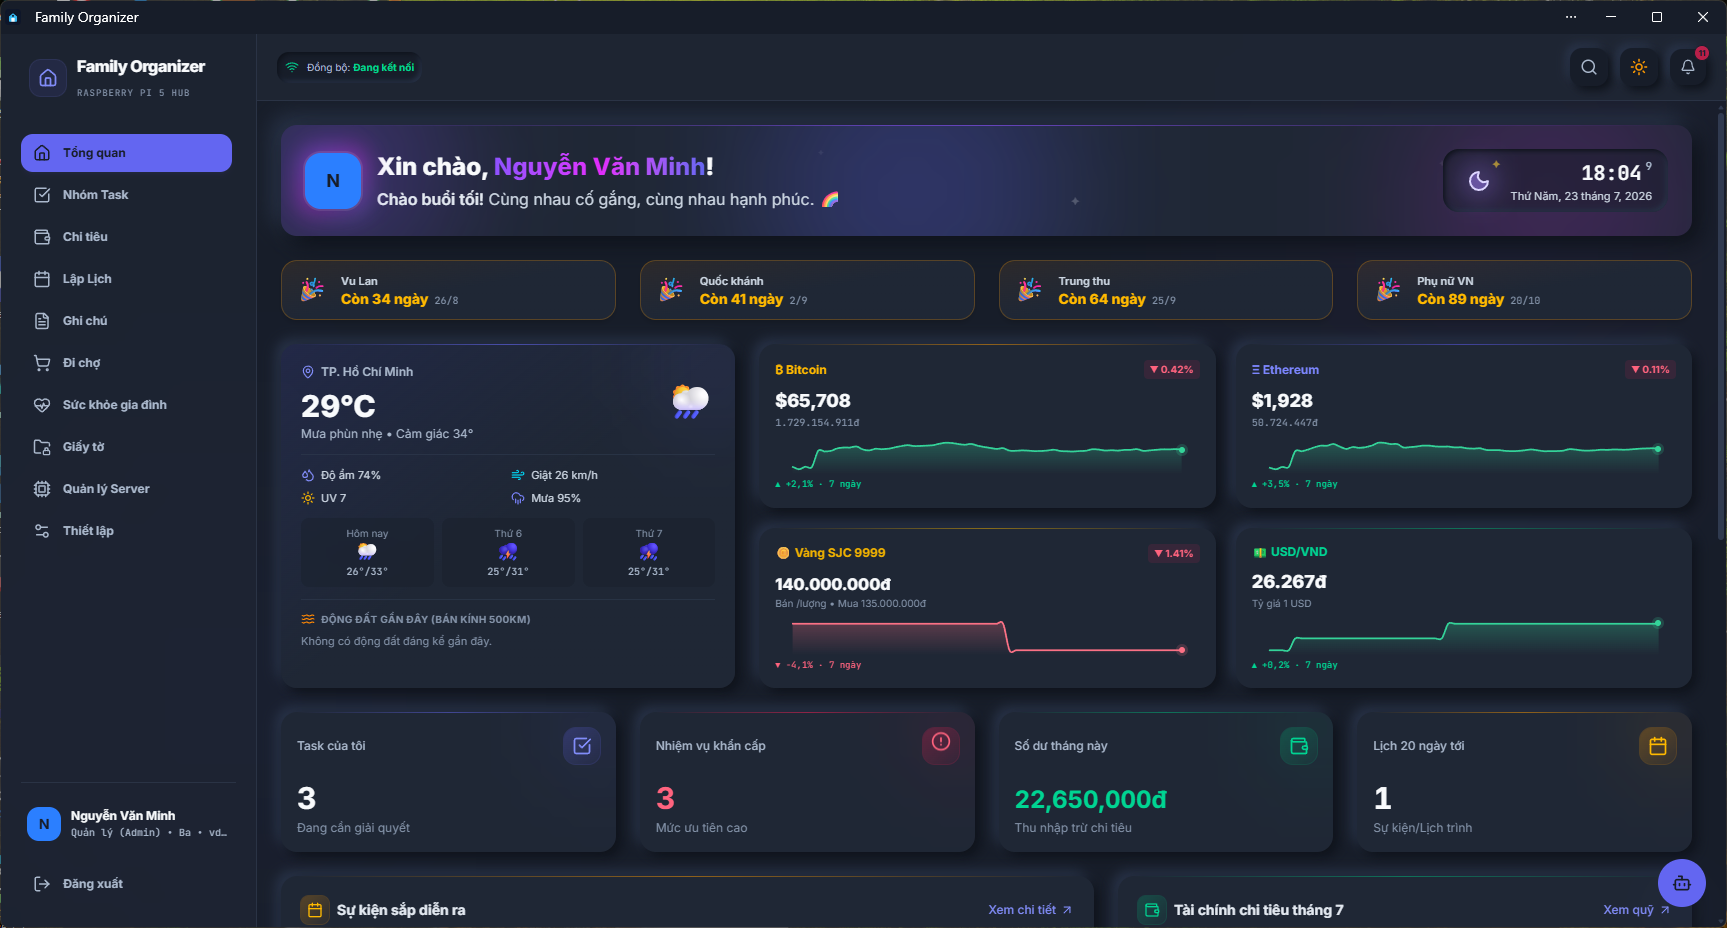
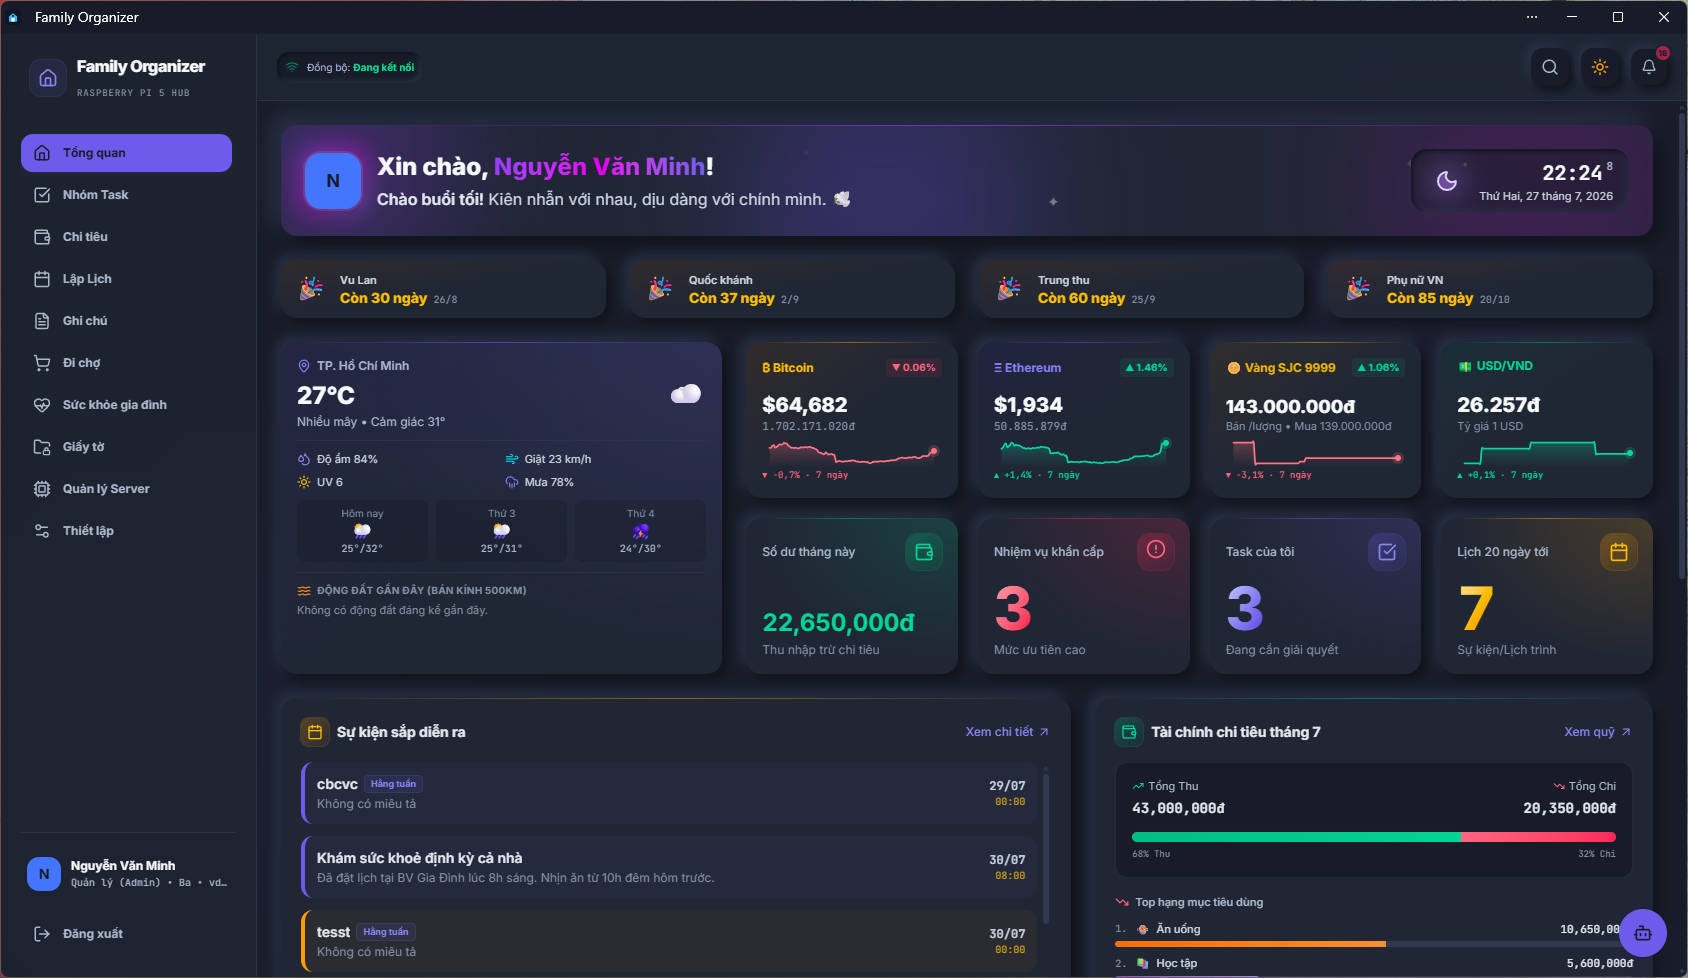
feat: update dashboard screenshots + add i18n docs (vi/en/zh)
- Replace dashboard-light/dark screenshots with latest UI
- Add 🌐 Đa Ngôn Ngữ section to README (language table, change guide, contribute guide)
- Add i18n section to docs/index.html (language cards + 2 how-to panels)
- Add '3 ngôn ngữ' pill to landing page hero

diff --git a/docs/index.html b/docs/index.html
@@ -206,6 +206,7 @@
           <span class="pill">💸 Không phí thuê bao</span>
           <span class="pill">🍓 Chạy trên Raspberry Pi</span>
           <span class="pill">📱 Cài như app điện thoại</span>
+          <span class="pill">🌐 3 ngôn ngữ</span>
         </div>
         <h1>Cả gia đình gọn trong <span class="grad">một app</span> —<br />chạy ngay tại nhà bạn</h1>
         <p class="lead">
@@ -296,6 +297,77 @@
           <div class="feat neu"><span class="ico">📄</span><div><h4>Giấy tờ</h4><p>CCCD, hộ chiếu, bảo hiểm, đăng kiểm… tự cảnh báo trước khi hết hạn.</p></div></div>
           <div class="feat neu"><span class="ico">🛒</span><div><h4>Đi chợ &amp; thực đơn</h4><p>Danh sách chung realtime, AI gợi ý thực đơn tuần và gộp nguyên liệu; thêm bằng giọng nói.</p></div></div>
           <div class="feat neu"><span class="ico">🤖</span><div><h4>Trợ lý AI (Gemini)</h4><p>Viết nháp ghi chú, gợi ý thực đơn, gửi bản tin gia đình mỗi tuần qua Telegram.</p></div></div>
+        </div>
+      </section>
+
+      <!-- I18N -->
+      <section id="ngon-ngu">
+        <h2 class="section-title">🌐 Đa Ngôn Ngữ</h2>
+        <p class="section-sub">Giao diện hỗ trợ 3 ngôn ngữ. Chuyển đổi ngay lập tức — không cần tải lại trang.</p>
+
+        <div class="grid cols-3" style="margin-bottom:32px">
+          <div class="card neu" style="text-align:center">
+            <span class="emoji">🇻🇳</span>
+            <h3>Tiếng Việt</h3>
+            <p>Bản gốc — đầy đủ 100% chuỗi giao diện.</p>
+          </div>
+          <div class="card neu" style="text-align:center">
+            <span class="emoji">🇬🇧</span>
+            <h3>English</h3>
+            <p>Full translation — all UI strings covered.</p>
+          </div>
+          <div class="card neu" style="text-align:center">
+            <span class="emoji">🇨🇳</span>
+            <h3>中文（简体）</h3>
+            <p>完整中文界面翻译。</p>
+          </div>
+        </div>
+
+        <div class="grid cols-2">
+          <div class="neu" style="padding:28px">
+            <h3 style="margin:0 0 16px;font-size:18px">⚙ Cách thay đổi ngôn ngữ</h3>
+            <div class="steps" style="counter-reset:step">
+              <div class="step neu" style="padding:14px 18px">
+                <div><strong>Mở Thiết lập</strong><br /><span style="color:var(--muted);font-size:14px">Icon bánh răng ở góc trái dưới thanh điều hướng.</span></div>
+              </div>
+              <div class="step neu" style="padding:14px 18px">
+                <div><strong>Chọn tab Hệ thống</strong><br /><span style="color:var(--muted);font-size:14px">Cuộn xuống mục <em>Ngôn ngữ giao diện</em>.</span></div>
+              </div>
+              <div class="step neu" style="padding:14px 18px">
+                <div><strong>Chọn ngôn ngữ</strong><br /><span style="color:var(--muted);font-size:14px">Giao diện chuyển ngay — lưu vào thiết bị, không ảnh hưởng thành viên khác.</span></div>
+              </div>
+            </div>
+          </div>
+
+          <div class="neu" style="padding:28px">
+            <h3 style="margin:0 0 16px;font-size:18px">🤝 Đóng góp bản dịch</h3>
+            <p style="color:var(--muted);font-size:14px;margin:0 0 16px">Muốn thêm tiếng Nhật, Hàn, Pháp…? Chỉ cần 3 bước — không đụng tới code UI:</p>
+            <div class="steps" style="counter-reset:step">
+              <div class="step neu" style="padding:14px 18px">
+                <div>
+                  <strong>Copy file locale gốc</strong><br />
+                  <code>cp src/i18n/locales/vi.json src/i18n/locales/ja.json</code><br />
+                  <span style="color:var(--muted);font-size:13px">Dịch phần <em>value</em>, giữ nguyên key.</span>
+                </div>
+              </div>
+              <div class="step neu" style="padding:14px 18px">
+                <div>
+                  <strong>Đăng ký vào <code>src/i18n/index.ts</code></strong><br />
+                  <span style="color:var(--muted);font-size:13px">Import file JSON + thêm vào <code>SUPPORTED_LANGUAGES</code> và <code>resources</code>.</span>
+                </div>
+              </div>
+              <div class="step neu" style="padding:14px 18px">
+                <div>
+                  <strong>Gửi Pull Request</strong><br />
+                  <span style="color:var(--muted);font-size:13px">Bộ chọn ngôn ngữ trong Settings tự hiện tùy chọn mới — xong!</span>
+                </div>
+              </div>
+            </div>
+            <p style="margin:16px 0 0;font-size:13px;color:var(--muted)">
+              Xem quy ước key chi tiết tại
+              <a href="https://github.com/happysmartlight/Family-Organizer/blob/main/src/i18n/MIGRATION_GUIDE.md" target="_blank" rel="noopener">MIGRATION_GUIDE.md ↗</a>
+            </p>
+          </div>
         </div>
       </section>
 

diff --git a/README.md b/README.md
@@ -343,6 +343,66 @@ Khi khởi động lần đầu hoặc sau khi xóa `data/family.db`, hệ thố
 
 ---
 
+## 🌐 Đa Ngôn Ngữ (i18n)
+
+Family Organizer hỗ trợ nhiều ngôn ngữ nhờ **react-i18next**. Khi đăng nhập lần đầu, ứng dụng tự phát hiện ngôn ngữ trình duyệt; người dùng có thể đổi bất cứ lúc nào.
+
+### Ngôn ngữ hiện hỗ trợ
+
+| Cờ | Ngôn ngữ | Mã | Trạng thái |
+| :---: | :--- | :---: | :--- |
+| 🇻🇳 | Tiếng Việt | `vi` | ✅ Bản gốc |
+| 🇬🇧 | English | `en` | ✅ Đầy đủ |
+| 🇨🇳 | 中文 (giản thể) | `zh` | ✅ Đầy đủ |
+
+### Cách thay đổi ngôn ngữ
+
+1. Mở **Thiết lập** (icon bánh răng góc trái dưới)
+2. Chọn tab **Hệ thống**
+3. Tìm mục **Ngôn ngữ giao diện** → chọn ngôn ngữ mong muốn
+4. Giao diện chuyển ngay lập tức — không cần tải lại trang
+
+Lựa chọn được lưu vào `localStorage` (`family_lang`), áp dụng riêng cho từng thiết bị.
+
+### Đóng góp bản dịch
+
+Thêm ngôn ngữ mới chỉ cần **3 bước** — không đụng tới code UI:
+
+#### Bước 1 — Tạo file locale
+
+```bash
+cp src/i18n/locales/vi.json src/i18n/locales/<mã-ngôn-ngữ>.json
+# Ví dụ: ja.json, ko.json, fr.json...
+```
+
+Dịch toàn bộ phần **value** (giữ nguyên key). `vi.json` là bản gốc/nguồn sự thật — mọi key mới đều vào đây trước.
+
+#### Bước 2 — Đăng ký vào `src/i18n/index.ts`
+
+```ts
+import ja from "./locales/ja.json";          // thêm import
+
+export const SUPPORTED_LANGUAGES = [
+  { code: "vi", label: "Tiếng Việt", flag: "🇻🇳" },
+  { code: "en", label: "English",    flag: "🇬🇧" },
+  { code: "zh", label: "中文",        flag: "🇨🇳" },
+  { code: "ja", label: "日本語",      flag: "🇯🇵" },  // ← thêm
+] as const;
+
+const resources = {
+  vi: { translation: vi },
+  en: { translation: en },
+  zh: { translation: zh },
+  ja: { translation: ja },                   // ← thêm
+};
+```
+
+#### Bước 3 — Gửi Pull Request
+
+Bộ chọn ngôn ngữ trong Settings sẽ tự hiện lựa chọn mới — không cần thay đổi thêm gì. Xem hướng dẫn chi tiết và quy ước key tại [`src/i18n/MIGRATION_GUIDE.md`](src/i18n/MIGRATION_GUIDE.md).
+
+---
+
 ## 🔧 Biến Môi Trường
 
 Các biến đặt trong file `.env` ở thư mục gốc (được `docker-compose.yml` đọc tự động).
